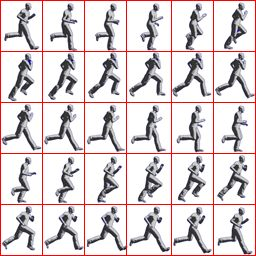
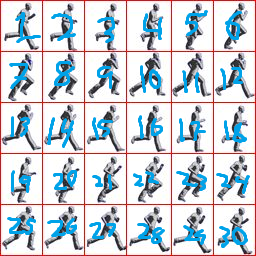
Added multi animation sprites

diff --git a/Level1/Level1.cpp b/Level1/Level1.cpp
@@ -10,6 +10,7 @@
 #include "../../labrat/graphics/model.h"
 #include "../../labrat/opengl/vertexdata.h"
 #include "../../labrat/physics/PhysObj.h"
+#include "../../labrat/texture/SpriteSheet.h"
 
 Level1::Level1()
 	: game_world(*this)
@@ -94,27 +95,26 @@ auto respawn_player(Entity* player, GUI& gui) {
 }
 
 auto animate(Reactive<Int64>& time, Entity* entity) {
-	auto sprite_box = entity->model->sprite_box;
+	
 	return from(time, entity->model->sprite_position)
-		.use([sprite_box](Int64 t, glm::vec2 p) {
-			//std::cout << t << "\n";
-		const float x_step = 42.0f / 256.0f;
-		const float y_step = 52.0f / 256.0f;
-			if (t % 1 == 0) {
-				//std::cout << p[0] << ", " << p[1] << "\n";
-				//std::cout << "Animation step!\n";
-				p[0] += x_step;
-				if (p[0] > 5.0f * x_step) {
-					p[0] = 0.0f;
-					p[1] -= y_step;
-				}
-				if (p[1] < -y_step) {
-					p[1] = 1.0f - (y_step);
-				}
-					
-			}
-			return p; })
+		.use([entity] (Int64 t, glm::vec2 p) mutable {
+			return (t % 8 == 0) ? entity->model->sprite_sheet.step_animation() : p; })
 		.determine(entity->model->sprite_position);
+}
+
+auto sync_player_animation(Reactive<std::vector<SDL_Event>>& events, Entity* player) {
+	return from(events, player->body, player->model->sprite_sheet.current_animation)
+		.use([](std::vector<SDL_Event> events, PhysObj* body, unsigned int c) {
+
+			if (-0.01 < body->velocity[0] && body->velocity[0] < 0.01) return 0u;
+
+			for (auto e : events) {
+				if (e.key.keysym.sym == SDLK_d) return 1u;
+				else  if (e.key.keysym.sym == SDLK_a) return 2u;
+			}
+
+			return c; })
+		.determine(player->model->sprite_sheet.current_animation);
 }
 
 void Level1::construct_updates(vector<std::unique_ptr<Updater>>& updates) {
@@ -134,10 +134,9 @@ void Level1::construct_updates(vector<std::unique_ptr<Updater>>& updates) {
 	updates.push_back(camera_track_object(main_camera, game_world.player));
 	updates.push_back(controls(game_world.player, keyboard_events, grav_normal));
 
-	
-
 	updates.push_back(track_object_xy(game_world.background, game_world.player));
 	updates.push_back(respawn_player(game_world.player, gui));
 
 	updates.push_back(animate(time, game_world.player));
+	updates.push_back(sync_player_animation(keyboard_events, game_world.player));
 }

diff --git a/models/general_models.h b/models/general_models.h
@@ -1,23 +1,29 @@
 #pragma once
 
 #include <string>
+#include <vector>
+#include "../../labrat/texture/SpriteSheet.h"
+
+const std::vector<VertexData2D> default_vertex_data = 
+	std::vector<VertexData2D>{
+		{ { 0, 1, 0, 255 },{ -1.0f, 1.00f } },
+		{ { 1, 0, 0, 255 },{ 1.00f, -1.00f } },
+		{ { 0, 0, 0, 255 },{ -1.00f, -1.00f } },
+		{ { 0, 1, 255, 255 },{ -1.00f, 1.00f } },
+		{ { 1, 0, 255, 255 },{ 1.00f, -1.00f } },
+		{ { 1, 1, 255, 255 },{ 1.00f, 1.00f } },
+	};
+
+inline std::string asset_path(std::string path) { return "labrat-game/assets/" + path; }
 
 inline auto basic_model(std::string filepath) {
-	return Model{
-		std::string(filepath),
-		std::vector<VertexData2D> {
-			{ { 0, 1, 0, 255 },{ -1.0f, 1.00f }},
-			{ { 1, 0, 0, 255 },{ 1.00f, -1.00f } },
-			{ { 0, 0, 0, 255 },{ -1.00f, -1.00f } },
-			{ { 0, 1, 255, 255 },{ -1.00f, 1.00f } },
-			{ { 1, 0, 255, 255 },{ 1.00f, -1.00f } },
-			{ { 1, 1, 255, 255 },{ 1.00f, 1.00f } },
-	} };
+	return Model{ std::string(filepath), default_vertex_data };
 }
+
 
 inline auto repeating_texture_model(std::string filepath, GLfloat width, GLfloat height) {
 	return Model{
-		std::string("labrat-game/assets/" + filepath),
+		asset_path(filepath),
 		std::vector<VertexData2D> {
 		VertexData2D{ RGBA{ 0, height, 0, 255 },{ -1.0f, 1.00f }},
 			VertexData2D{ RGBA{ width, 0, 0, 255 },{ 1.00f, -1.00f } },
@@ -28,12 +34,20 @@ inline auto repeating_texture_model(std::string filepath, GLfloat width, GLfloat
 	} };
 }
 
+inline auto animated_model(std::string filepath, unsigned int rows, unsigned int cols, std::vector<Animation> as) {
+	return AnimatedModel(asset_path(filepath), rows, cols, as, default_vertex_data);
+}
+
 inline auto basic_asset_model(std::string filepath) {
-	return basic_model("labrat-game/assets/" + filepath);
+	return basic_model(asset_path(filepath));
 }
 
 inline auto player_model() {
-	return basic_asset_model("player_animated.png");
+	return animated_model("bi_directional_stick.png", 3, 8, {
+		Animation{ { 0,0 },{ 0,0 } },
+		Animation { { 1,0 }, { 1,7 } },
+		Animation { { 2,0 }, { 2,7 } }
+	});
 }
 
 inline auto ground_model(GLfloat width, GLfloat height) {

diff --git a/Level1/Level1World.cpp b/Level1/Level1World.cpp
@@ -34,13 +34,9 @@ Level1World::Level1World(SceneState& state)
 	{
 		rising_platforms.push_back(state.spawn_body(ground_model(21.0f + i*4.1f, 4.0f), playable_layer, 21.0f + i*4.1f, 4.0f, 2.0f, 1.0f, 0.0f));
 	}
-	
-
 
 	// Units
 	player = state.spawn_body(player_model(), playable_layer, 1.0f, 1.0f, 0.5f, 0.5f, 2.0f);
-	player->model->sprite_box = glm::vec2(42.0f/256.0f, 52.0f/ 256.0f);
-	player->model->sprite_position.value[1] = 1.0f - (104.0f / 256.0f);
 }
 
 
